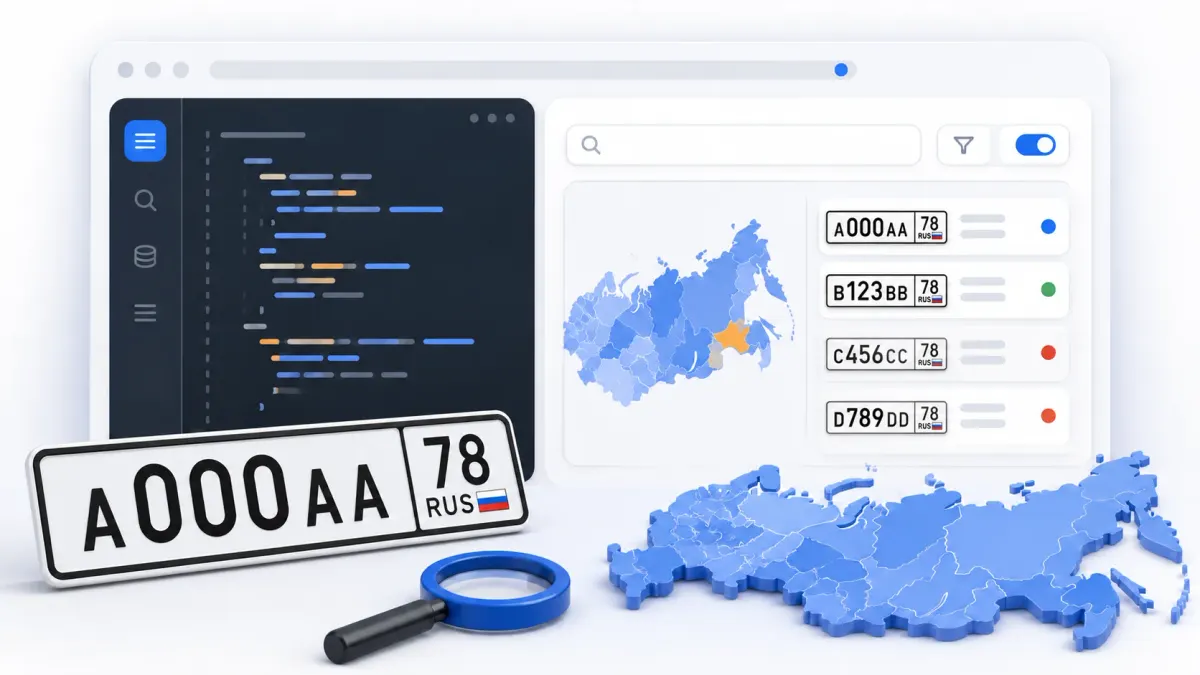
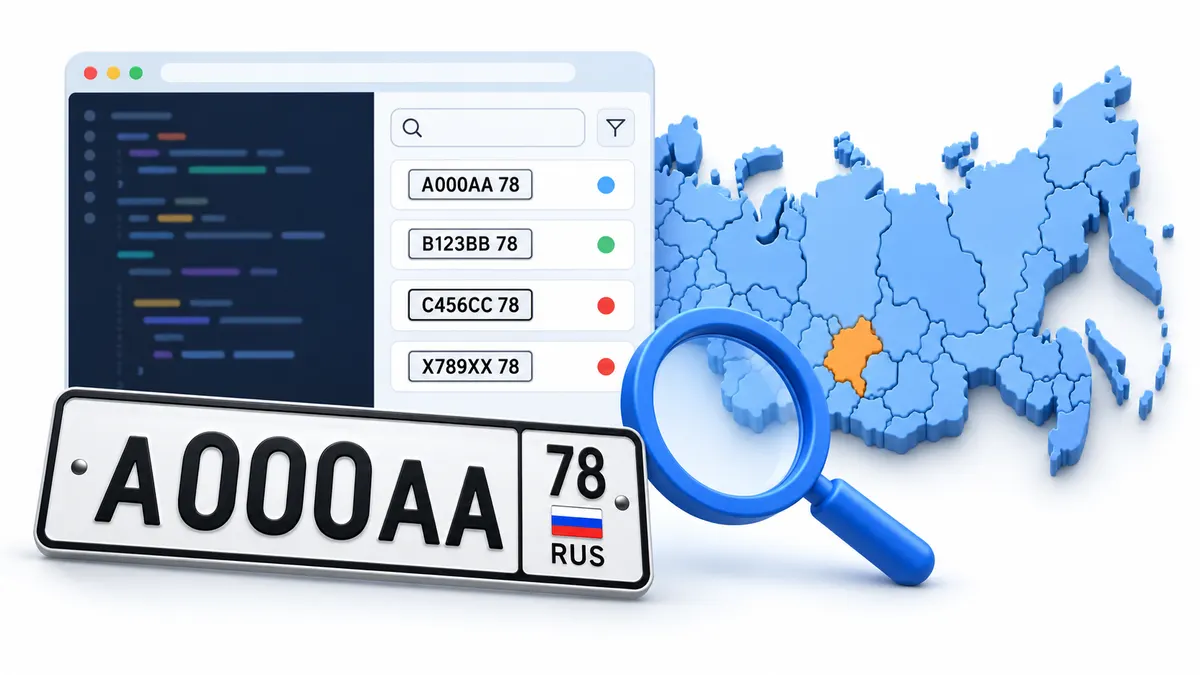
feat(car-region-codes): конструктор номера с подстановкой региона
Номер стал полем ввода прямо на табличке — позиционная маска
буква-цифра-цифра-цифра-буква-буква, латинские двойники букв (A/B/E/K/M/H/O/P/C/T/Y/X)
автоматически переводятся в кириллицу. Код региона вводится в номере
или подставляется кликом по строке таблицы. Под номером — название
субъекта/округ по коду и вердикт по цифрам («красивый номер»: зеркальный,
все одинаковые, по порядку, круглый).

Шрифт номера — Roboto Condensed 700 (.plate-font), ближайший безопасный
аналог: официальный ЖР5 по ГОСТ 3489.2 без свободной лицензии нигде не
нашёлся. Подключён только на этой странице (robotoCondensedFont.variable
на обёртке номера), не в layout — чтобы не тянуть шрифт на весь сайт.

Обложка тула (kody-regionov-rf-*.webp) перегенерирована: одна из строк
использовала невалидную латинскую D вместо кириллической буквы.

diff --git a/app/tools/(widget)/car-region-codes/page.tsx b/app/tools/(widget)/car-region-codes/page.tsx
@@ -2,9 +2,16 @@
 
 import { useMemo, useState } from 'react'
 import { Card } from '@/components/ui/card'
+import { RotateCcw } from 'lucide-react'
 import { cn } from '@/lib/utils'
-import { toolBar, toolFooterBar, toolPill } from '@/lib/ui/tool-pill'
+import {
+	toolBar,
+	toolFooterBar,
+	toolIconButton,
+	toolPill
+} from '@/lib/ui/tool-pill'
 import { CAR_REGIONS, type CarRegion } from '@/lib/data/car-region-codes'
+import { robotoCondensedFont } from '@/lib/fonts/fonts'
 import { WidgetSEOWrapper } from '@/components/seo/WidgetSEOWrapper'
 import { getWidgetById } from '@/lib/constants/widgets'
 import { CarRegionCodesSeo } from './CarRegionCodesSeo'
@@ -14,6 +21,101 @@ const DISTRICTS = [
 	'Все',
 	...Array.from(new Set(CAR_REGIONS.map(region => region.district))).sort()
 ]
+
+/** Буквы, которые по ГОСТ Р 50577 допускаются в российском автономере —
+ *  кириллица, совпадающая по начертанию с латиницей. */
+const PLATE_LETTERS = 'АВЕКМНОРСТУХ'
+
+/** Латинские двойники тех же букв — принимаем при вводе с английской
+ *  раскладки или вставке номера, набранного латиницей, и превращаем в
+ *  кириллицу той же формы. */
+const LATIN_TO_CYRILLIC: Record<string, string> = {
+	A: 'А',
+	B: 'В',
+	E: 'Е',
+	K: 'К',
+	M: 'М',
+	H: 'Н',
+	O: 'О',
+	P: 'Р',
+	C: 'С',
+	T: 'Т',
+	Y: 'У',
+	X: 'Х'
+}
+
+/** Формат российского номера: буква, три цифры, две буквы — в этом и
+ *  только в этом порядке. */
+const PLATE_PATTERN: Array<'letter' | 'digit'> = [
+	'letter',
+	'digit',
+	'digit',
+	'digit',
+	'letter',
+	'letter'
+]
+
+/**
+ * Позиционная маска: символ принимается, только если подходит под ожидаемый
+ * класс (буква/цифра) для текущей позиции — иначе нажатие просто не даёт
+ * эффекта, как в маске номера карты. Так на выходе всегда либо пустая
+ * строка, либо префикс реального формата, а не произвольный набор из
+ * шести букв или цифр.
+ */
+function filterPlateBody(value: string): string {
+	const upper = value.toUpperCase()
+	let result = ''
+
+	for (const raw of upper) {
+		if (result.length >= PLATE_PATTERN.length) break
+
+		const char = LATIN_TO_CYRILLIC[raw] ?? raw
+		const expected = PLATE_PATTERN[result.length]
+
+		if (expected === 'letter' && PLATE_LETTERS.includes(char)) {
+			result += char
+		} else if (expected === 'digit' && /[0-9]/.test(char)) {
+			result += char
+		}
+	}
+
+	return result
+}
+
+/**
+ * Вердикт по трёхзначному числу в номере — без внешних данных, только
+ * арифметика на цифрах. Категории соответствуют тому, за что на рынке
+ * перекупов реально платят больше номинала.
+ */
+function getBeautyVerdict(threeDigits: string): string | null {
+	if (threeDigits.length !== 3) return null
+
+	const [a, b, c] = threeDigits.split('').map(Number)
+
+	if (a === b && b === c) {
+		return 'Все три цифры одинаковые — самый ценный тип красивого номера'
+	}
+	if (a === c) {
+		return 'Зеркальный номер — первая и последняя цифры совпадают'
+	}
+	if ((b === a + 1 && c === b + 1) || (b === a - 1 && c === b - 1)) {
+		return 'Цифры идут по порядку'
+	}
+	if (b === 0 && c === 0) {
+		return 'Круглый номер — заканчивается на два нуля'
+	}
+	return null
+}
+
+function RussianFlag() {
+	return (
+		<span className='flex h-4 w-6 flex-col overflow-hidden rounded-[1px] border border-black/20 sm:h-5 sm:w-7'>
+			<span className='h-[2px] flex-1 bg-white' />
+			<span className='h-[2px] flex-1 bg-blue-600' />
+			<span className='h-[2px] flex-1 bg-red-600' />
+		</span>
+	)
+}
 
 /** Строка таблицы вместе с тем, по какому коду она нашлась. */
 type Row = { region: CarRegion; matchedFormer: string | null }
@@ -37,6 +139,25 @@ export default function CarRegionCodesPage() {
 
 	const [query, setQuery] = useState('')
 	const [district, setDistrict] = useState('Все')
+	const [plateBody, setPlateBody] = useState('')
+	const [regionCode, setRegionCode] = useState('')
+
+	const matchedRegion = useMemo(() => {
+		if (!regionCode) return null
+		const current = CAR_REGIONS.find(region =>
+			region.codes.includes(regionCode)
+		)
+		if (current) return { region: current, former: false }
+		const former = CAR_REGIONS.find(region =>
+			region.formerCodes?.includes(regionCode)
+		)
+		return former ? { region: former, former: true } : null
+	}, [regionCode])
+
+	const beautyVerdict = useMemo(
+		() => getBeautyVerdict(plateBody.replace(/[^0-9]/g, '')),
+		[plateBody]
+	)
 
 	const rows = useMemo(() => {
 		const needle = query.trim().toLowerCase()
@@ -52,6 +173,99 @@ export default function CarRegionCodesPage() {
 	return (
 		<WidgetSEOWrapper widget={widget}>
 			<Card className='overflow-hidden p-0'>
+				<div className='flex flex-col items-center gap-4 border-b bg-muted/30 px-5 py-6 sm:px-6'>
+					<div className='flex items-stretch gap-3'>
+						<div
+							className={cn(
+								robotoCondensedFont.variable,
+								'flex w-fit items-stretch overflow-hidden rounded-lg border-[6px] border-black bg-white shadow-md'
+							)}
+						>
+							<input
+								type='text'
+								value={plateBody}
+								onChange={event =>
+									setPlateBody(filterPlateBody(event.target.value))
+								}
+								placeholder='А123ВС'
+								aria-label='Буквы и цифры номера'
+								maxLength={6}
+								size={1}
+								className='plate-font w-[4.4em] border-0 bg-transparent px-4 py-3 text-left text-5xl tracking-wider text-black placeholder:text-black/25 focus:outline-none sm:px-6 sm:text-7xl'
+							/>
+							<div className='flex flex-col items-center justify-center gap-1.5 border-l-4 border-black px-3 py-2'>
+								<input
+									type='text'
+									inputMode='numeric'
+									value={regionCode}
+									onChange={event =>
+										setRegionCode(
+											event.target.value.replace(/\D/g, '').slice(0, 3)
+										)
+									}
+									placeholder='78'
+									aria-label='Код региона'
+									maxLength={3}
+									size={1}
+									className='plate-font w-[2.2em] border-0 bg-transparent text-left text-3xl leading-none text-black placeholder:text-black/25 focus:outline-none sm:text-5xl'
+								/>
+								<span className='flex items-center gap-1.5 text-xl leading-none font-bold text-black sm:text-2xl'>
+									RUS
+									<RussianFlag />
+								</span>
+							</div>
+						</div>
+
+						<button
+							type='button'
+							onClick={() => {
+								setPlateBody('')
+								setRegionCode('')
+							}}
+							disabled={!plateBody && !regionCode}
+							title='Сбросить'
+							className={cn(
+								toolIconButton,
+								'self-center',
+								!(plateBody || regionCode) && 'invisible'
+							)}
+						>
+							<RotateCcw className='h-4 w-4' />
+						</button>
+					</div>
+
+					<div className='flex flex-col items-center gap-1.5 text-center'>
+						{matchedRegion ? (
+							<p className='text-lg font-semibold text-foreground sm:text-xl'>
+								{matchedRegion.region.region}
+								{matchedRegion.former && (
+									<span className='ml-2 align-middle text-xs font-normal text-amber-600 dark:text-amber-400'>
+										бывший код
+									</span>
+								)}
+								<span className='block text-sm font-normal text-muted-foreground'>
+									{matchedRegion.region.district} округ
+								</span>
+							</p>
+						) : (
+							<p className='text-sm text-muted-foreground'>
+								Впишите код региона в номер — узнаете субъект
+							</p>
+						)}
+
+						{beautyVerdict && (
+							<span className='inline-flex items-center rounded-full border border-primary/40 bg-primary/10 px-3 py-1 text-xs font-medium text-primary'>
+								{beautyVerdict}
+							</span>
+						)}
+					</div>
+
+					<p className='max-w-md text-center text-xs text-muted-foreground'>
+						Формат: буква → 3 цифры → 2 буквы. Печатайте прямо на номере или
+						кликните на строку в таблице ниже — её код региона подставится сюда
+					</p>
+				</div>
+
 				<div className={toolBar}>
 					<input
 						type='search'
@@ -104,7 +318,13 @@ export default function CarRegionCodesPage() {
 								{rows.map(({ region, matchedFormer }) => (
 									<tr
 										key={region.region}
-										className='border-b last:border-0 hover:bg-muted/40'
+										onClick={() => setRegionCode(region.codes[0])}
+										className={cn(
+											'cursor-pointer border-b last:border-0 hover:bg-muted/40',
+											regionCode &&
+												region.codes.includes(regionCode) &&
+												'bg-primary/5'
+										)}
 									>
 										<td className='px-5 py-3 font-mono whitespace-nowrap sm:px-6'>
 											{region.codes.join(', ')}

diff --git a/lib/fonts/fonts.ts b/lib/fonts/fonts.ts
@@ -1,4 +1,10 @@
-import { Anton, Geist_Mono, Inter, Onest } from 'next/font/google'
+import {
+	Anton,
+	Geist_Mono,
+	Inter,
+	Onest,
+	Roboto_Condensed
+} from 'next/font/google'
 
 // Using Google Fonts with next/font
 export const interFont = Inter({
@@ -38,4 +44,16 @@ export const geistMonoFont = Geist_Mono({
 	subsets: ['latin', 'cyrillic'],
 	variable: '--font-geist-mono',
 	display: 'swap'
+})
+
+// Жирный гротеск-конденс под автомобильные номера (.plate-font в
+// globals.css, car-region-codes/page.tsx). Официальный ГОСТовский ЖР5 не
+// распространяется со свободной лицензией — этот шрифт лишь визуально
+// близкий аналог. preload: false — используется только на одном тул-виджете.
+export const robotoCondensedFont = Roboto_Condensed({
+	weight: '700',
+	subsets: ['latin', 'cyrillic'],
+	variable: '--font-plate',
+	display: 'swap',
+	preload: false
 })

diff --git a/app/globals.css b/app/globals.css
@@ -1462,6 +1462,13 @@ pre[class*='language-'] {
 	}
 }
 
+/* Автомобильный номер (car-region-codes). Официальный ГОСТовский ЖР5 без
+   свободной лицензии не распространяется — Roboto Condensed 700 ближайший
+   безопасный аналог по пропорциям и жирности. */
+.plate-font {
+	font-family: var(--font-plate), 'Arial Narrow', system-ui, sans-serif;
+}
+
 /* Animated card */
 .digit-card {
 	position: absolute;
